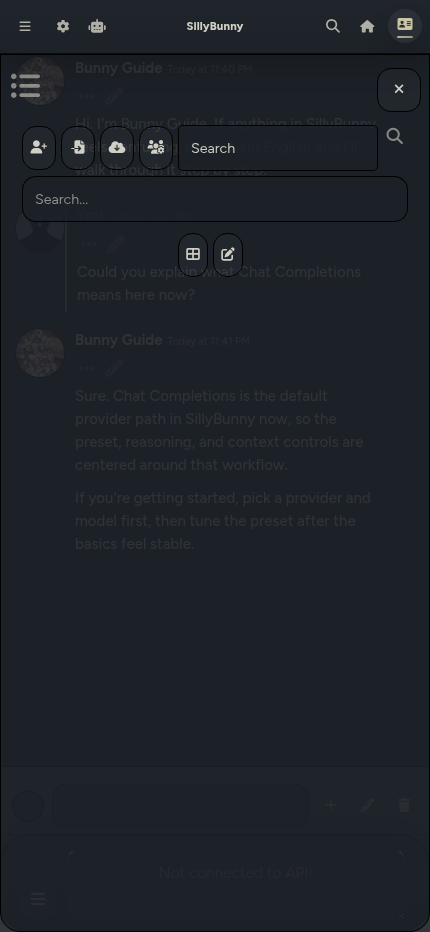
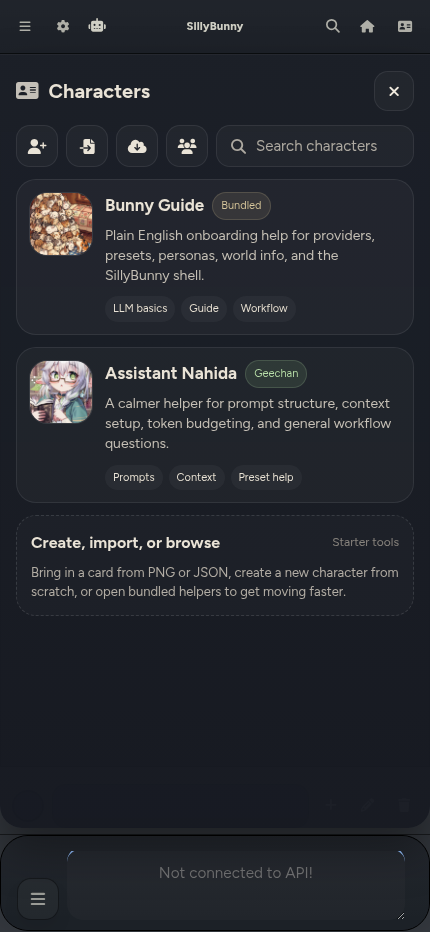
docs(readme): fix broken v1.4.0 screenshots

diff --git a/.github/readme.md b/.github/readme.md
@@ -203,6 +203,7 @@ SillyBunny includes some extras by default to help you get started right away:
 - Switching between Navigate and Customize now keeps the target shell open immediately instead of briefly collapsing through a closed state
 - Home display toggles now render once in a centered top row instead of duplicating again above Recent Chats
 - Refreshed the README gallery for v1.4.0 with updated desktop/mobile shell captures and new Bunny Guide in-chat screenshots
+- Corrected the v1.4.0 README shell captures so the mobile gallery and Characters views no longer show broken overlay states
 
 **Themes and Appearance**
 

diff --git a/README.md b/README.md
@@ -207,6 +207,7 @@ SillyBunny includes some extras by default to help you get started right away:
 - Home now reflows from its own panel width, so returning from Customize no longer crushes the landing copy into a narrow one-word column
 - Home display toggles now render once in a centered top row instead of duplicating again above Recent Chats
 - Refreshed the README gallery for v1.4.0 with updated desktop/mobile shell captures and new Bunny Guide in-chat screenshots
+- Corrected the v1.4.0 README shell captures so the mobile gallery and Characters views no longer show broken overlay states
 
 **Themes and Appearance**
 
